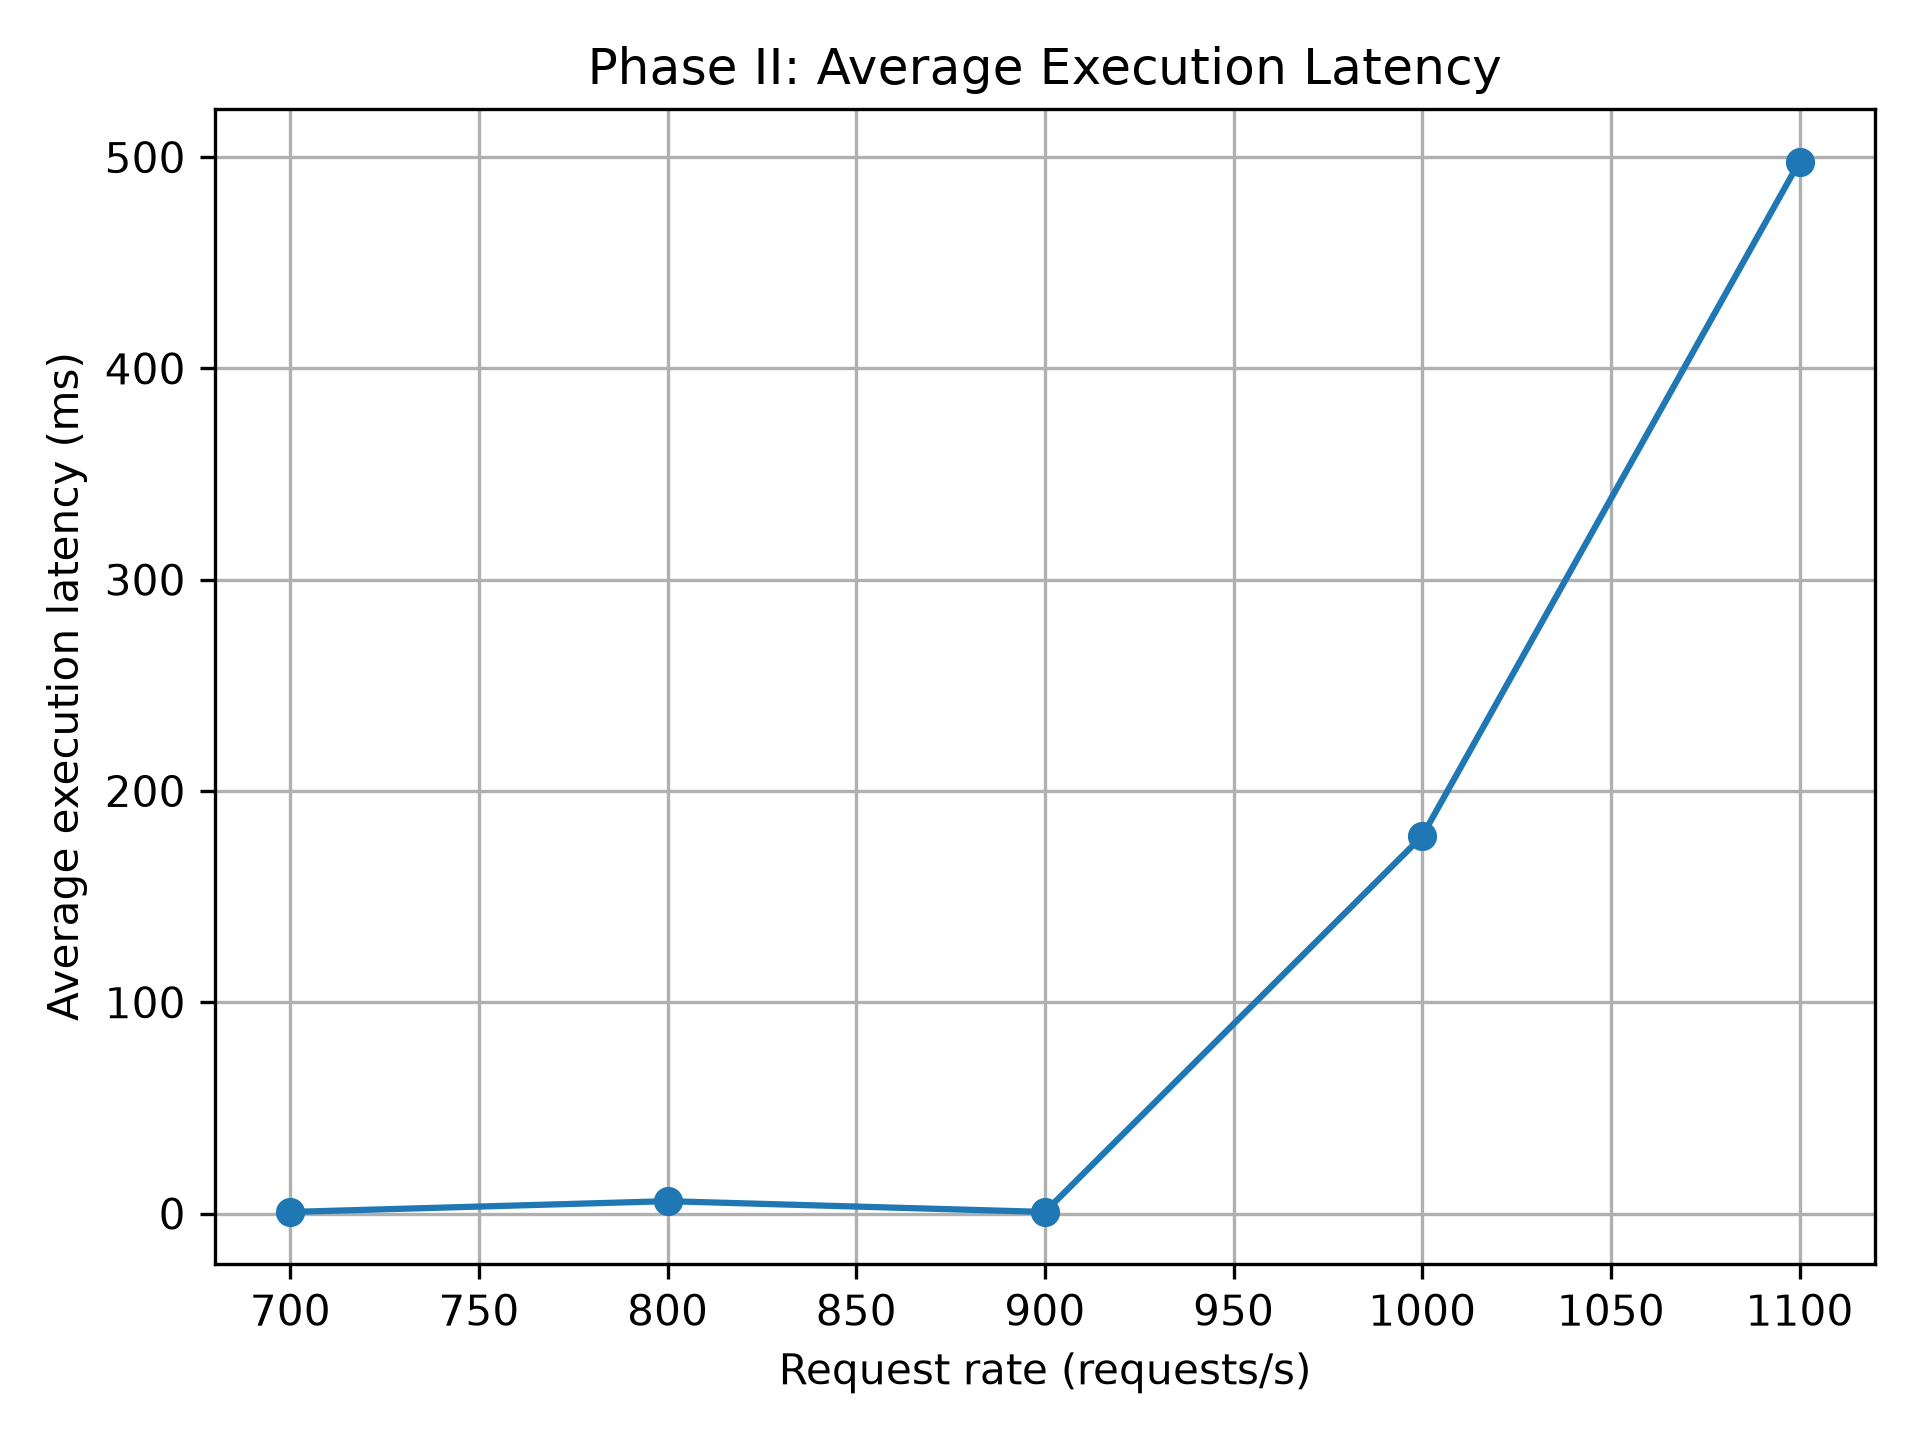
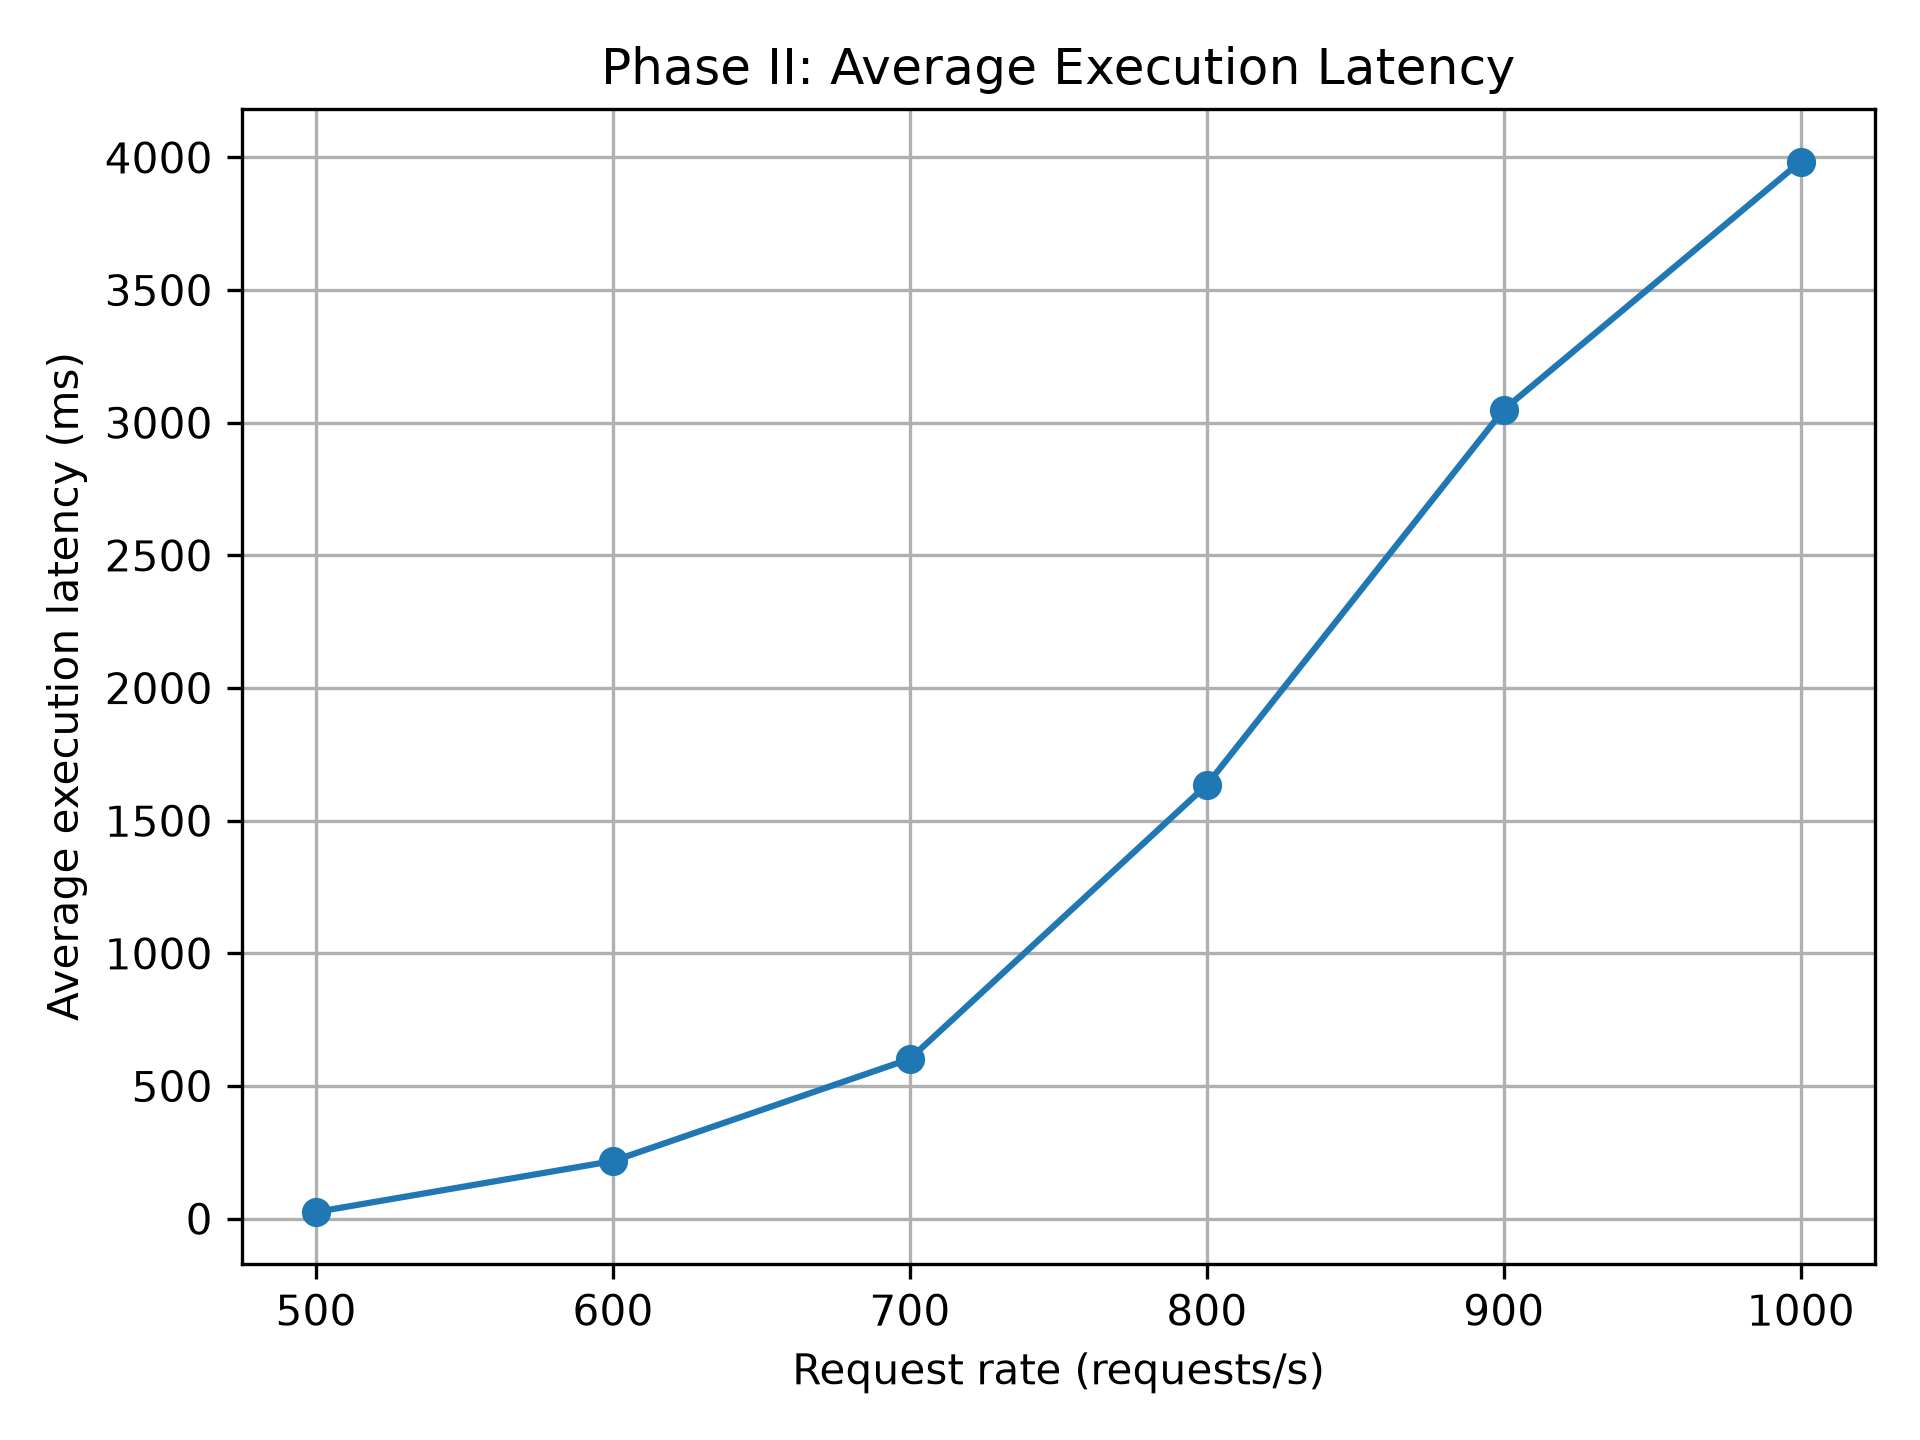
updated benchmark.py

diff --git a/wordCount/benchmark.py b/wordCount/benchmark.py
@@ -1,227 +1,254 @@
 import csv
 import math
 import os
+import random
+import re
 import statistics
 import threading
 import time
 
-# Multiple requests concurrently with threading
-from concurrent.futures import ThreadPoolExecutor, as_completed
-
 import redis
 import rpyc
 
-# Constants for server connection
 SERVER_HOST = "server"
 SERVER_PORT = 18861
 
 TEXT_REFERENCE = "sample2.txt"
 
+# Optional local copy of the text (inside the client container) used to draw
+# real words as keywords. If it does not exist, synthetic keywords are used.
+LOCAL_TEXT_PATH = "texts/sample2.txt"
+
 # Request rates (requests per second)
+REQUEST_RATES = [500, 600, 700, 800, 900, 1000]
 
-REQUEST_RATES = [1000, 1020, 1040, 1060, 1080, 1100]
-
-#REQUEST_RATES = [50, 60, 70, 80, 90, 100]
-
-# Run each workload for 10 seconds
 DURATION_SECONDS = 10
 
-# Maximum number of concurrent threads to use for sending requests
-MAX_WORKERS = 100
+# Every rate sends at least this many requests, so the p99 is meaningful
+MIN_REQUESTS = 1000
 
-# Keywords to check
-KEYWORDS = [
-    "the",
-    "and",
-    "time",
-    "it",
-    "world",
-    "pleasure"
-]
+# Number of client connections (simulated clients). Requests are spread over them
+# round-robin. Sending never waits for a connection to be free: each request is
+# written to its socket immediately and the reply is handled whenever it arrives.
+NUM_CONNECTIONS = 100
 
-# Thread local storage for RPyC connections
-thread_local = threading.local()
+# Give up waiting for outstanding replies after this long once sending is finished
+RESPONSE_TIMEOUT_SECONDS = 60
 
-# Create a connection for the current thread
-def get_connection():
+# "cold": every request uses a different keyword -> every request is a cache miss
+# "warm": cache is pre-filled, only a few keywords -> every request is a cache hit
+CACHE_MODE = "cold"
 
-    # If current thread does not have connection, create a new connection
-    if not hasattr(thread_local, "connection"):
+WARM_KEYWORDS = ["the", "and", "time", "it", "world", "pleasure"]
 
-        thread_local.connection = rpyc.connect(SERVER_HOST, SERVER_PORT)
 
-    return thread_local.connection # Return the connection for the current thread
-
-# Send one request to the server and return the latency and count
-def send_one_request(keyword):
-
-    # Get the connection for the current thread
-    connection = get_connection()
-
-    # Measure the time taken to get the count from the server
-    start = time.perf_counter()
-
-    # Call exposed method on server count_word(keyword, text_reference)
-    count = connection.root.count_word(keyword, TEXT_REFERENCE)
-
-    # Measure the time taken to get the count from the server
-    end = time.perf_counter()
-
-    # Calculate latency in milliseconds
-    latency_ms = (end - start) * 1000
-
-    # Return the latency and count
-    return latency_ms, count
-
-# Calculate the 99th percentile of a list of values
 def percentile_99(values):
-
-    # Sort the values
     sorted_values = sorted(values)
-
-    # Calculate the index of the 99th percentile
     index = math.ceil(0.99 * len(sorted_values)) - 1
-
-    # Return the value at the 99th percentile index
     return sorted_values[index]
 
-# Clear the word count cache in Redis (for each experiment)
-def clear_word_count_cache():
 
-    # Create a Redis client to connect to the Redis server
+def clear_cache():
     client = redis.Redis(host="redis", port=6379, decode_responses=True)
-
-    # Get all keys that match the pattern "wc:*" (word count cache keys)
     keys = list(client.scan_iter("wc:*"))
-
-    # If there are any keys, delete them from the Redis cache
     if keys:
         client.delete(*keys)
+    client.delete("hot_keywords")
 
-# Run an experiment with a given request rate (requests per second)
-def run_experiment(rate):
 
+def load_word_pool():
+    if not os.path.isfile(LOCAL_TEXT_PATH):
+        return []
+    with open(LOCAL_TEXT_PATH, "r", encoding="utf-8", errors="ignore") as file:
+        text = file.read().lower()
+    words = sorted(set(re.findall(r"[a-z]+", text)))
+    random.Random(42).shuffle(words)
+    return words
+
+
+WORD_POOL = load_word_pool()
+
+
+def make_keywords(n):
+    if CACHE_MODE == "warm":
+        return [WARM_KEYWORDS[i % len(WARM_KEYWORDS)] for i in range(n)]
+
+    # cold: n unique keywords. Real words first, synthetic ones if the pool runs out.
+    # A synthetic keyword costs the same as a real one (the whole file is still scanned).
+    keywords = WORD_POOL[:n]
+    keywords += [f"nokeyword{i}" for i in range(len(keywords), n)]
+    return keywords
+
+
+def prewarm_cache():
+    # Fill the cache with a plain synchronous connection (untimed)
+    connection = rpyc.connect(SERVER_HOST, SERVER_PORT)
+    for keyword in WARM_KEYWORDS:
+        connection.root.count_word(keyword, TEXT_REFERENCE)
+    connection.close()
+
+
+def open_connections(n):
+    connections = []
+    async_calls = []
+
+    for _ in range(n):
+        connection = rpyc.connect(SERVER_HOST, SERVER_PORT)
+
+        # Untimed first-touch work: handshake and fetching the remote method proxy
+        connection.ping()
+        async_call = rpyc.async_(connection.root.count_word)
+
+        # This thread only receives replies for this connection and fires callbacks.
+        # It does not limit sending in any way.
+        threading.Thread(target=connection.serve_all, daemon=True).start()
+
+        connections.append(connection)
+        async_calls.append(async_call)
+
+    return connections, async_calls
+
+
+def run_experiment(rate, async_calls):
     print()
     print("=" * 60)
-    print(f"Starting experiment: " f"{rate} requests/second")
+    print(f"Starting experiment: {rate} requests/second ({CACHE_MODE} cache)")
     print("=" * 60)
 
-    # Clear the word count cache in Redis before starting the experiment
-    clear_word_count_cache()
+    clear_cache()
 
-    # Calculate the total number of requests to send during the experiment
-    number_of_requests = (rate * DURATION_SECONDS)
+    if CACHE_MODE == "warm":
+        prewarm_cache()
 
+    number_of_requests = max(rate * DURATION_SECONDS, MIN_REQUESTS)
+    keywords = make_keywords(number_of_requests)
+
+    lock = threading.Lock()
+    all_done = threading.Event()
     latencies = []
-    errors = 0
+    error_messages = []
+    completed = 0
 
-    futures = [] # Unfinished request to keep track of completion of requests
+    def make_callback(sent_time):
+        # Called when the reply for one request arrives
+        def on_response(result):
+            nonlocal completed
+            received_time = time.perf_counter()
 
-    # To help calculate when requests should be send to achieve desired rate of requests per second
+            with lock:
+                try:
+                    _ = result.value  # raises if the server returned an error
+                    latencies.append((received_time - sent_time) * 1000)
+                except Exception as error:
+                    error_messages.append(str(error))
+
+                completed += 1
+                if completed == number_of_requests:
+                    all_done.set()
+
+        return on_response
+
+    max_lag_ms = 0.0
     start_time = time.perf_counter()
 
-    # Use a thread pool executor to send requests concurrently
-    with ThreadPoolExecutor(max_workers=MAX_WORKERS) as executor:
+    for request_number in range(number_of_requests):
+        target_time = start_time + request_number / rate
+        sleep_time = target_time - time.perf_counter()
 
-        # Schedule requests to be sent at the specified rate
-        for request_number in range(number_of_requests):
+        if sleep_time > 0:
+            time.sleep(sleep_time)
+        else:
+            # The generator is behind schedule: the client itself is a bottleneck
+            max_lag_ms = max(max_lag_ms, -sleep_time * 1000)
 
-            # Desired send time for this request
-            target_time = (start_time + request_number / rate)
+        async_call = async_calls[request_number % len(async_calls)]
 
-            # Calculate how long to sleep until the target time for this request
-            sleep_time = (target_time - time.perf_counter())
+        # SENT: the timestamp is taken immediately before the request is written out
+        sent_time = time.perf_counter()
+        result = async_call(keywords[request_number], TEXT_REFERENCE)
+        result.add_callback(make_callback(sent_time))
 
-            if sleep_time > 0:
-                time.sleep(sleep_time)
+    send_elapsed = time.perf_counter() - start_time
 
-            # Select a keyword to send with this request from the list
-            keyword = KEYWORDS[request_number % len(KEYWORDS)]
+    # Wait for outstanding replies (nothing is sent anymore, this only collects)
+    finished = all_done.wait(timeout=RESPONSE_TIMEOUT_SECONDS)
 
-            # Give one worker the job of running send_one_request(keyword)
-            future = executor.submit(send_one_request, keyword)
+    with lock:
+        successful = len(latencies)
+        errors = len(error_messages)
+        lost = number_of_requests - completed
+        latencies_snapshot = list(latencies)
 
-            futures.append(future)
+    if not finished:
+        print(f"WARNING: {lost} replies did not arrive within "
+              f"{RESPONSE_TIMEOUT_SECONDS} s and are not in the statistics.")
 
-        # Wait for all requests to complete and collect the results
-        for future in as_completed(futures):
-
-            # Get result of request if no error, otherwise count the error and print it
-            try:
-
-                # Get the latency and save it to the list of latencies 
-                latency_ms, _ = future.result()
-
-                latencies.append(latency_ms)
-
-            except Exception as error:
-
-                errors += 1
-
-                print("Request failed:", error)
-
-    if not latencies:
+    if not latencies_snapshot:
         raise RuntimeError("No successful requests")
 
-    # Calculate average latency and 99th percentile latency
-    average_latency = statistics.mean(latencies)
+    achieved_rate = number_of_requests / send_elapsed
+    average_latency = statistics.mean(latencies_snapshot)
+    p99_latency = percentile_99(latencies_snapshot)
 
-    p99_latency = percentile_99(latencies)
+    print(f"Requests: {number_of_requests}")
+    print(f"Successful: {successful}")
+    print(f"Errors: {errors}   No reply: {lost}")
+    if error_messages:
+        print("First error:", error_messages[0])
+    print(f"Achieved send rate: {achieved_rate:.1f} req/s (target {rate})")
+    print(f"Max send lag: {max_lag_ms:.1f} ms")
+    print(f"Average latency: {average_latency:.3f} ms")
+    print(f"P99 latency: {p99_latency:.3f} ms")
 
-    # Print the results of the experiment
-    print(f"Requests: " f"{number_of_requests}")
-
-    print(f"Successful: " f"{len(latencies)}")
-
-    print(f"Errors: " f"{errors}")
-
-    print(f"Average latency: " f"{average_latency:.3f} ms")
-
-    print(f"P99 latency: " f"{p99_latency:.3f} ms")
+    if achieved_rate < 0.95 * rate:
+        print("WARNING: client could not sustain the target rate; "
+              "this point is limited by the load generator, not the server.")
 
     return {
         "rate": rate,
         "requests": number_of_requests,
-        "successful": len(latencies),
-        "errors": errors,
+        "successful": successful,
+        "errors": errors + lost,
         "average_ms": average_latency,
-        "p99_ms": p99_latency
+        "p99_ms": p99_latency,
+        "achieved_rate": achieved_rate,
+        "max_send_lag_ms": max_lag_ms,
+        "cache_mode": CACHE_MODE,
     }
 
 
 def main():
-
-    # Create a directory to store the results if it doesn't exist
     os.makedirs("results", exist_ok=True)
+
+    connections, async_calls = open_connections(NUM_CONNECTIONS)
 
     results = []
 
-    # Run experiments for each request rate and collect the results
-    for rate in REQUEST_RATES:
+    try:
+        for rate in REQUEST_RATES:
+            results.append(run_experiment(rate, async_calls))
+            time.sleep(3)
+    finally:
+        for connection in connections:
+            try:
+                connection.close()
+            except Exception:
+                pass
 
-        result = run_experiment(rate)
-
-        results.append(result)
-
-        # Short rest before next workload
-        time.sleep(3)
-
-    # Save the results to a CSV file
-    output_file = ("results/phase2_results.csv")
+    output_file = "results/phase2_results.csv"
 
     with open(output_file, "w", newline="", encoding="utf-8") as file:
-
         writer = csv.DictWriter(
             file,
-            fieldnames=["rate", "requests", "successful", "errors", "average_ms", "p99_ms"]
+            fieldnames=["rate", "requests", "successful", "errors",
+                        "average_ms", "p99_ms", "achieved_rate",
+                        "max_send_lag_ms", "cache_mode"],
         )
-
         writer.writeheader()
-
         writer.writerows(results)
 
     print()
-    print(f"Results saved to " f"{output_file}")
+    print(f"Results saved to {output_file}")
 
 
 if __name__ == "__main__":
